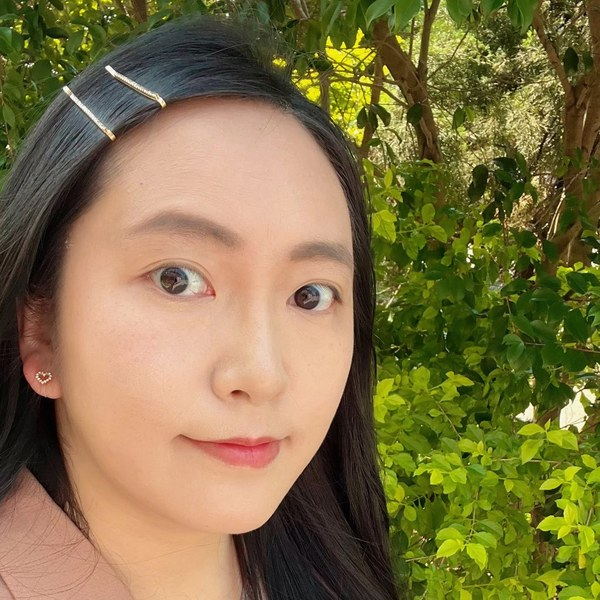
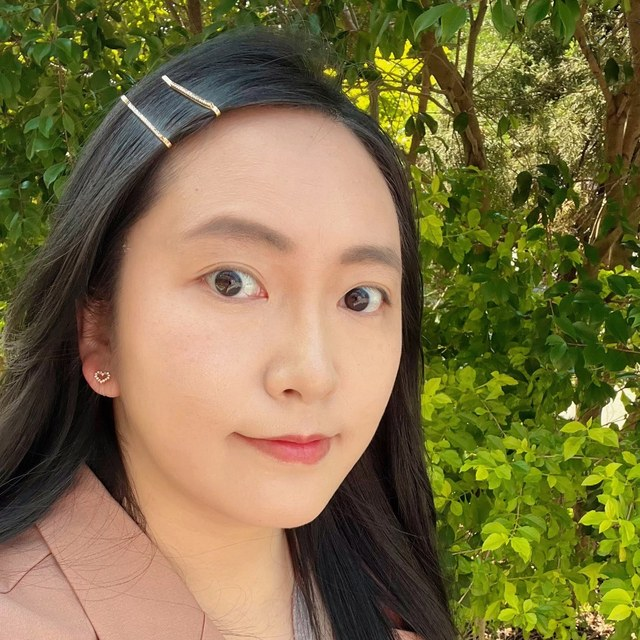
Add files via upload

diff --git a/index.html b/index.html
@@ -129,7 +129,7 @@
     <li> and the zh text in the dictionary.
 
   PHOTO (in place)
-    portrait.jpg sits in the repo root, 600 px square, and renders at 132 px
+    portrait.jpg sits in the repo root, 640 px square, and renders at 132 px
     (88 px on a phone) with rounded corners and edges softened into the page
     background. To swap it, replace the file and keep the square crop: head
     and shoulders, eyes on the upper third, at least 600 px a side. The frame
@@ -297,7 +297,7 @@
     }
     .portrait::after {
       content: ""; position: absolute; inset: 0; border-radius: 16px;
-      box-shadow: inset 0 0 14px 7px var(--bg);
+      box-shadow: inset 0 0 10px 4px var(--bg);
       pointer-events: none;
     }
     h1 {
@@ -510,7 +510,7 @@
 
     <header>
       <div class="head">
-        <span class="portrait"><img src="/portrait.jpg" alt="Li-Ning Wang" width="600" height="600"></span>
+        <span class="portrait"><img src="/portrait.jpg" alt="Li-Ning Wang" width="640" height="640"></span>
         <div>
           <h1>Li-Ning Wang</h1>
           <p class="tagline" data-i18n="tagline">Independent researcher at Niaur, Taipei. I study whether AI models&rsquo; self-reports can be trusted, and how interaction conditions shape model behavior.</p>
